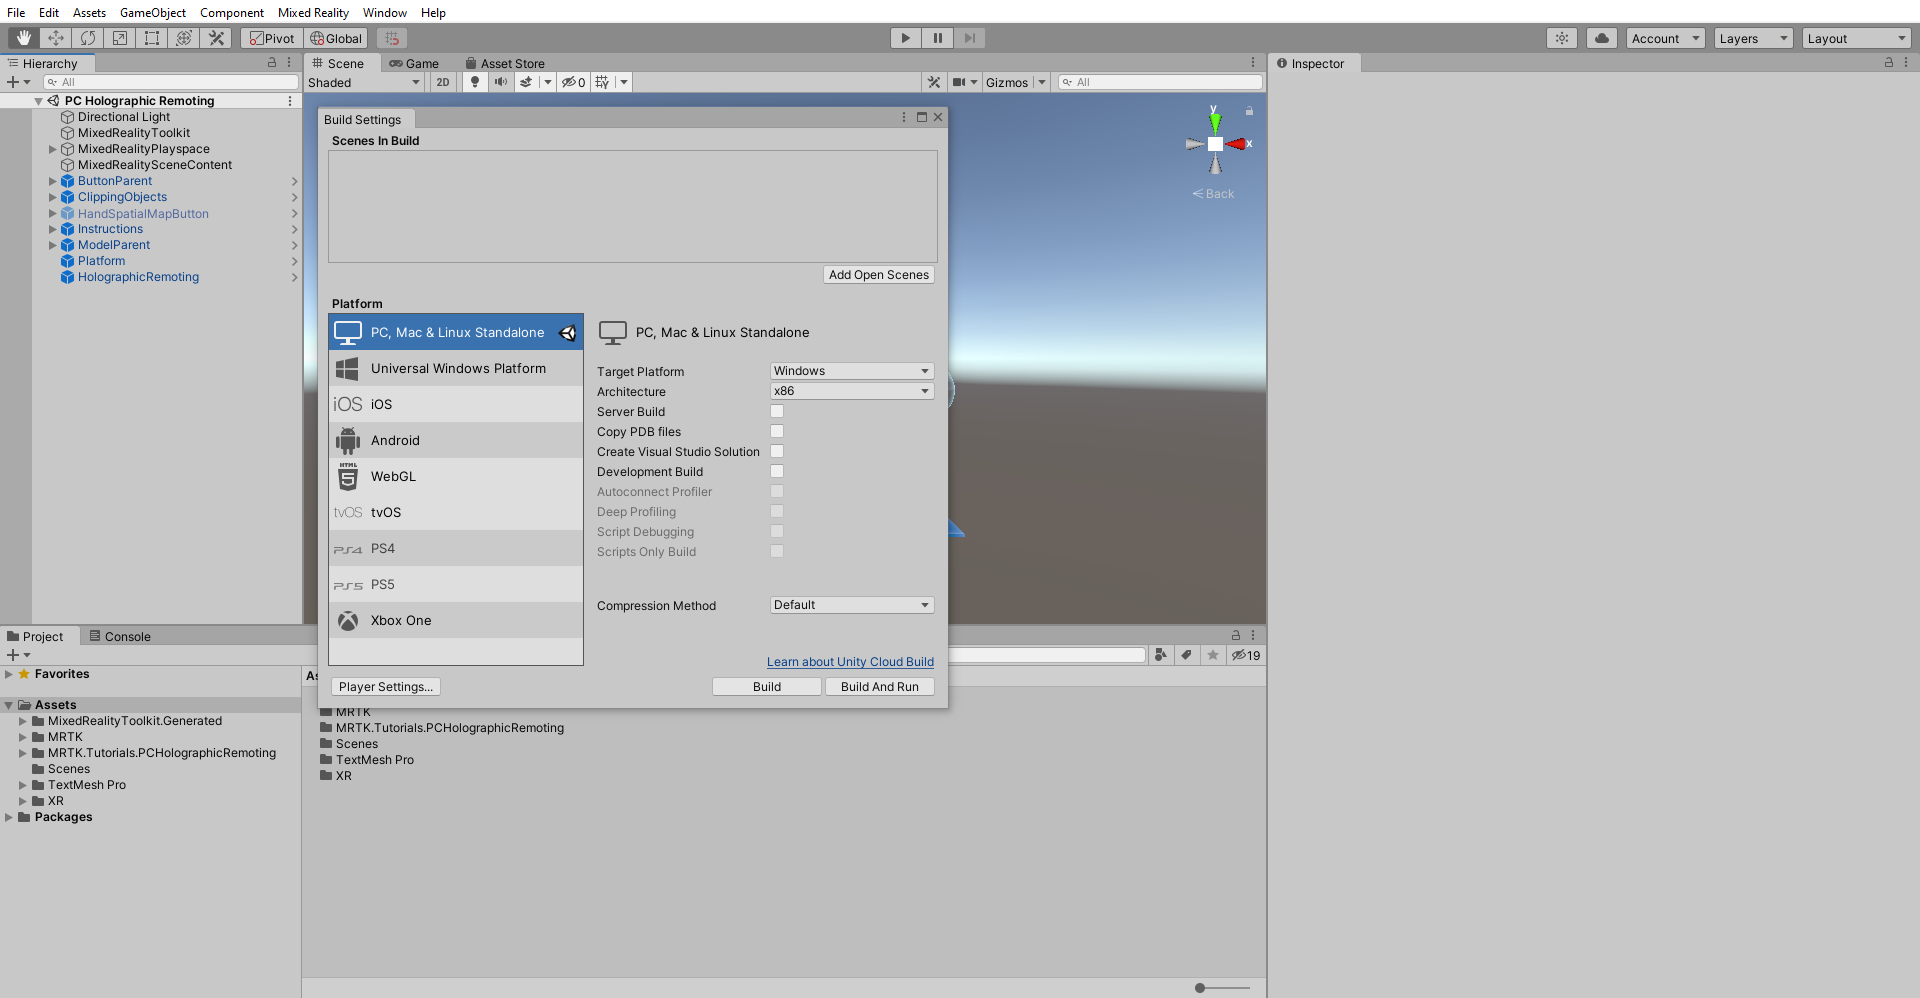
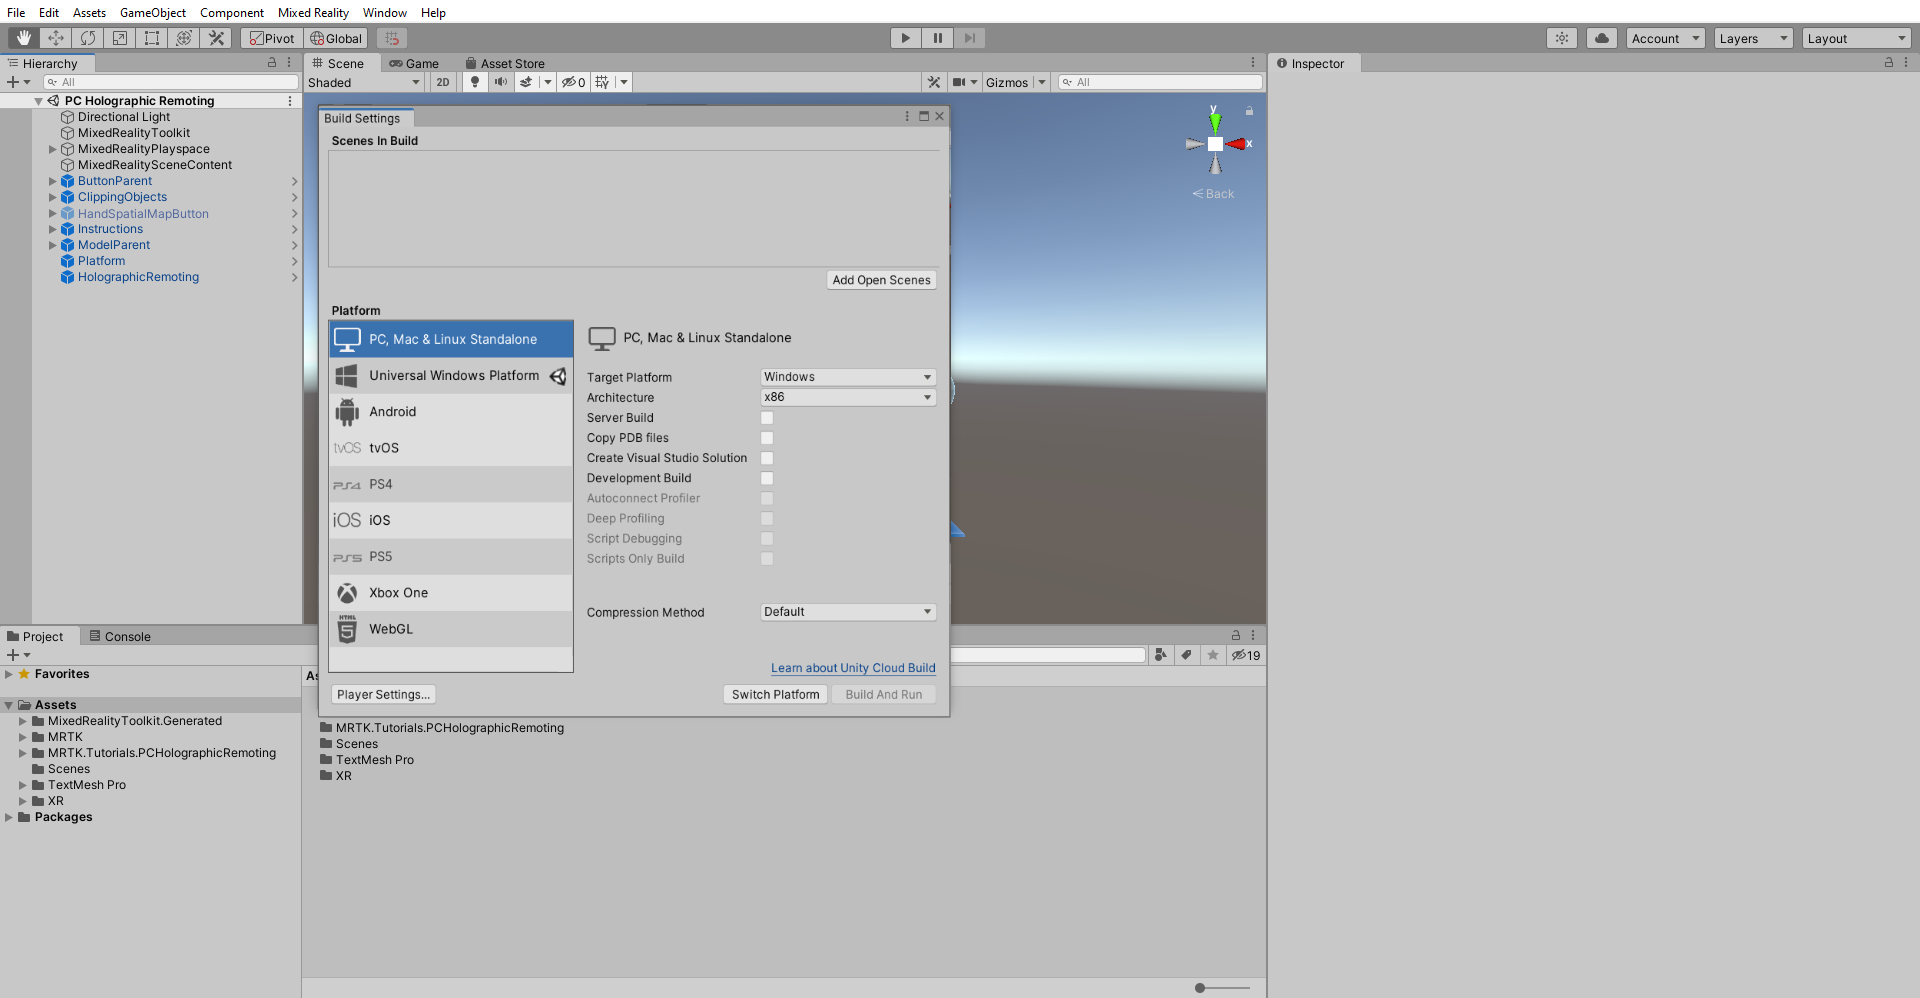
minor modifications

diff --git a/mixed-reality-docs/mr-dev-docs/develop/unity/tutorials/includes/build-your-application-to-pc.md b/mixed-reality-docs/mr-dev-docs/develop/unity/tutorials/includes/build-your-application-to-pc.md
@@ -4,27 +4,29 @@
 
 In the Unity menu, select File > Build Settings to open the Build Settings window.
 
-In the Build Settings window, select **PC, Mac & Linux Standlone** Platform and click the Switch Platform button:
+In the Build Settings window, select **PC, Mac & Linux Standalone** Platform and click the **Switch Platform** button to change the Build Platform:
 
 ![Switching Build Platform](../images/mrlearning-pc-holographic-remoting/Tutorial2-Section2-Step4-1.png)
 
-When Unity has finished switching the platform, click the red x icon to close the Build Settings window.
+When Unity has finished switching the platform, click the x icon to close the Build Settings window.
 
 ### 2. Set the project settings
 
-In the Unity menu, select Edit > Project Settings > XR Plug-in Management > switch to PC, Mac & Linux Standlone tab and set the **OpenXR** and **Windows Mixed Reality feature set** checkbox.
+In the Unity menu, select **Edit** > **Project Settings** > **XR Plug-in Management** ensure that you are in Windows Standalone tab and check the **OpenXR** and **Windows Mixed Reality feature set** checkbox.
 
 ![Enable OpenXR and Windows Mixed Reality feature set](../images/mrlearning-pc-holographic-remoting/Tutorial2-Section2-Step4-2.png)
 
-In Project Settings, select OpenXR > switch to PC, Mac & Linux Standlone tab and change the Depth submission mode from None to **Depth 16 Bit** and in interaction profiles add **Eye Gaze Interaction Profile** and **Microsoft Hand Interaction Profile** by clicking on the + symbol.
+In Project Settings window, select **OpenXR** and ensure that you are in Windows Standalone tab and change the **Depth submission mode** from None to **Depth 16 Bit**.
+
+In interaction profiles tab add **Eye Gaze Interaction Profile** and **Microsoft Hand Interaction Profile** by clicking on the + symbol.
 
 ![Add Eye Gaze Interaction Profile and Microsoft Hand Interaction Profile](../images/mrlearning-pc-holographic-remoting/Tutorial2-Section2-Step4-3.png)
 
-Under Open XR feature groups > All features > Set the **Holographic App Remoting** checkbox.
+Under **Open XR feature groups** > **All features** > check the **Holographic App Remoting** checkbox.
 
 ![Enable Holographic App Remoting](../images/mrlearning-pc-holographic-remoting/Tutorial2-Section2-Step4-4.png)
 
-And also under Open XR feature groups, set Windows Mixed Reality and **Holographic App Remoting** checkbox.
+next select the **Windows Mixed Reality**  check box and under Windows Mixed Reality group select the  **Holographic App Remoting** checkbox.
 
 ![Enable Windows Mixed Reality Holographic App Remoting](../images/mrlearning-pc-holographic-remoting/Tutorial2-Section2-Step4-5.png)
 
@@ -32,17 +34,23 @@ And also under Open XR feature groups, set Windows Mixed Reality and **Holograph
 
 In the Unity menu, select File > Build Settings to open the Build Settings window.
 
-In the Build Settings window, click the ***Add Open Scenes*** button to add your current scene to the Scenes. In the Build list, then click the ***Build button*** to open the PC, Mac & Linux Standlone platform window:
+In the Build Settings window, click the ***Add Open Scenes*** button to add your current scene to the Scenes. In the Build list, then click the **Build** button:
 
 ![Unity Build Settings window with scene added](../images/mrlearning-pc-holographic-remoting/Tutorial2-Section2-Step4-6.png)
 
-In the Build PC, Mac & Linux Standlone platform window, choose a suitable location to store your build, for example, Documents\MixedRealityLearning. Create a new folder and give it a suitable name, for example, PCHolographicRemoting. Then click the ***Select Folder*** button to start the build process:
+choose a suitable location to store your build, for example, Documents\MixedRealityLearning. Create a new folder and give it a suitable name, for example, PCHolographicRemoting. Then click the ***Select Folder*** button to start the build process:
 
 ![Unity Build Settings window with Select Folder prompt window](../images/mrlearning-pc-holographic-remoting/Tutorial2-Section2-Step4-7.png)
 
 Wait for Unity to finish the build process.
 
 ![Unity build process in progress](../images/mrlearning-pc-holographic-remoting/Tutorial2-Section2-Step4-8.png)
+
+double click on the Executable file to open the Application in your PC.
+
+> [!NOTE]
+> Due to some known issues in Holographic Remoting for PC app Built as UWP we are Building the PC App as Windows Standalone for OpenXR.
+
 
 # [Legacy WSA](#tab/wsa)
 

diff --git a/mixed-reality-docs/mr-dev-docs/develop/unity/tutorials/mr-learning-pc-holographic-remoting-01.md b/mixed-reality-docs/mr-dev-docs/develop/unity/tutorials/mr-learning-pc-holographic-remoting-01.md
@@ -34,7 +34,7 @@ In the second tutorial, [Create a Holographic Remoting application](mr-learning-
 We **strongly recommend** completing the [Getting started](mr-learning-base-01.md) tutorials series or some basic prior experience with Unity and MRTK before continuing.
 
 > [!IMPORTANT]
-> * This tutorial series supports Unity 2019 LTS (currently 2019.4.x) if you are using Legacy WSA and also Unity 2020 LTS(currently 2020.3.x) if you are using Open XR. This supersedes any Unity version requirements stated in the prerequisites linked above.
+> * This tutorial series supports Unity 2020 LTS(currently 2020.3.x) if you are using Open XR and Unity 2019 LTS (currently 2019.4.x) if you are using Legacy WSA This supersedes any Unity version requirements stated in the prerequisites linked above.
 
 ## Creating and preparing the Unity project
 

diff --git a/mixed-reality-docs/mr-dev-docs/develop/unity/tutorials/includes/importing-tutorial-assets-pc-holographic-remoting.md b/mixed-reality-docs/mr-dev-docs/develop/unity/tutorials/includes/importing-tutorial-assets-pc-holographic-remoting.md
@@ -1,5 +1,3 @@
-# [Unity 2019/2020 + Windows XR Plugin](#tab/winxr)
-
 # [Unity 2020 + OpenXR](#tab/openxr)
 
 Download and **import** the [MRTK.Tutorials.PCHolographicRemoting.unitypackage](https://github.com/microsoft/MixedRealityLearning/releases/download/pc-holographic-remoting-v2.4.1/MRTK.Tutorials.PCHolographicRemoting.OpenXR.unitypackage).
